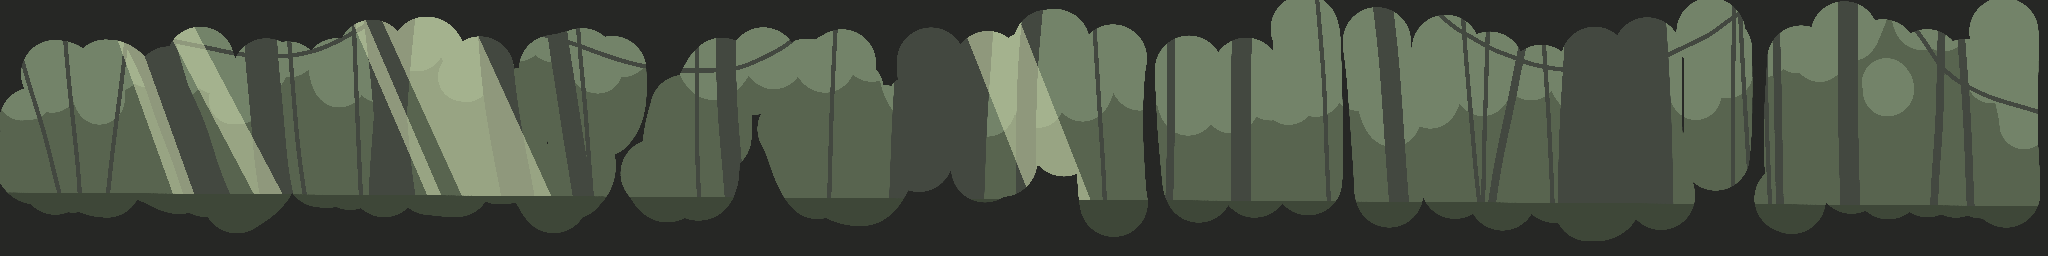
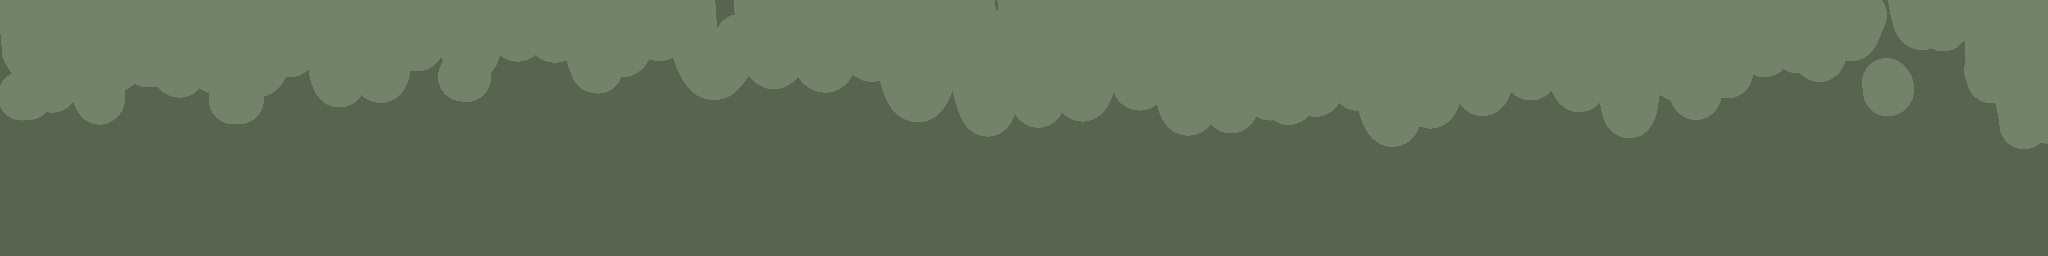
背景画像をいい具合にレイヤー分けして表示

diff --git a/app/javascript/Field.vue b/app/javascript/Field.vue
@@ -1,7 +1,13 @@
 <template lang="pug">
   .field
-    .background(
-      :style="backgroundImageStyle"
+    .background.view0(
+      :style="view0Style"
+    )
+    .background.view1(
+      :style="view1Style"
+    )
+    .background.view2(
+      :style="view2Style"
     )
     .ground
       img.spica(
@@ -12,6 +18,12 @@
         :src="tirolImagePath"
         :style="{transform: 'translateX(' + $store.state.field.position.tirol + 'px) scale('+ $store.state.field.direction.tirol * -1 +', 1)'}"
       )
+    .background.view3(
+      :style="view3Style"
+    )
+    .background.view4(
+      :style="view4Style"
+    )
 </template>
 
 <script lang="ts">
@@ -58,11 +70,32 @@ export default {
     tirolImagePath(){
       return this.$store.getters['user/isAliveCharacter']('tirol') ? "images/ui/tirol.png" : "images/ui/tirol_dead.png";
     },
-    backgroundImageStyle(){
+    view0Style(){
       return {
         backgroundImage: `url("/images/backgrounds/${this.$store.state.user.status.current_dungeon_id}/0.png")`
       }
     },
+    view1Style(){
+      return {
+        backgroundImage: `url("/images/backgrounds/${this.$store.state.user.status.current_dungeon_id}/1.png")`
+      }
+    },
+    view2Style(){
+      return {
+        backgroundImage: `url("/images/backgrounds/${this.$store.state.user.status.current_dungeon_id}/2.png")`
+      }
+    },
+    view3Style(){
+      return {
+        backgroundImage: `url("/images/backgrounds/${this.$store.state.user.status.current_dungeon_id}/3.png")`
+      }
+    },
+    view4Style(){
+      return {
+        backgroundImage: `url("/images/backgrounds/${this.$store.state.user.status.current_dungeon_id}/4.png")`
+      }
+    },
+
   },
 }
 </script>
@@ -89,6 +122,9 @@ export default {
       position: absolute;
       height: 200px;
     }
+  }
+  .view3{
+    mix-blend-mode: screen;
   }
 }
 </style>

diff --git a/app/javascript/SwitchDungeonWindow.vue b/app/javascript/SwitchDungeonWindow.vue
@@ -22,7 +22,7 @@
                 | {{dungeonProgress(dungeon.id)}}
               |  / {{dungeon.depth}}F
         .control_tab
-          .main_image(:style="{backgroundImage: `url('images/backgrounds/${selectingDungeonId}/0.png')`}" :key="selectingDungeonId")
+          .main_image(:style="{backgroundImage: `url('images/backgrounds/${selectingDungeonId}/cateneted.png')`}" :key="selectingDungeonId")
           .controls.window
             .depth_slider
               input(type="range" orient="vertical" v-model="selectingDungeonDepth" min="1" :max="currentDungeonMaxDepthCanSwitch" :style="{width: sliderWidthPercent}")
